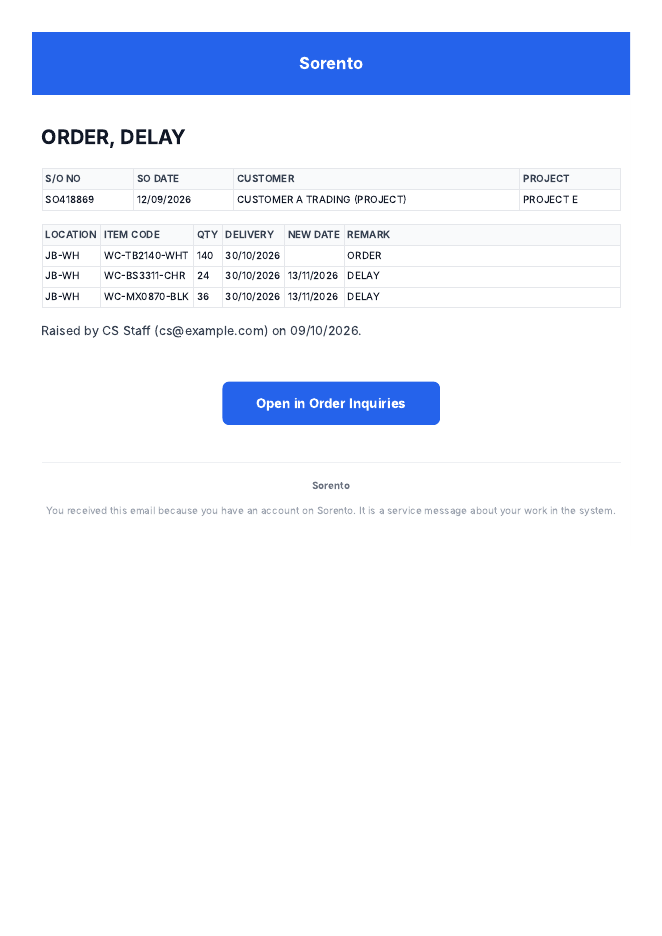
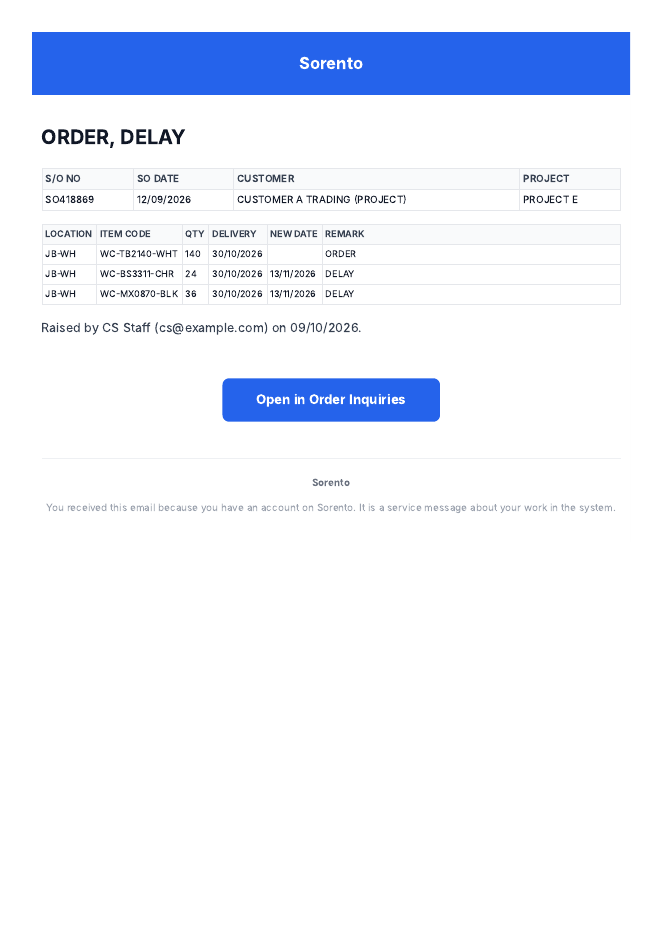
fix(scm): oihr_0005 also upgrades the pre-0004 handover row; line table 11px (OI-EMAIL-PRINT)
Owner hand test on dev: the handover row was still the pre-oihr_0004 document, and
the guard that only knew oihr_0004's output updated 0 rows in silence. The guard now
accepts every unedited state (pre-0004, its width:standard re-save, oihr_0004 output)
and still skips an admin-edited row with a warning.

The owner's REMARK 'DELAY, ORDER 6, CHANGE ITEM CODE TO SRT382-6-DIY (WAS SRT382-6)'
took 3 lines on the 672px card at 12px; the line table is now 11px, which gives
2 lines in the widest layout (print pass case 4).

Claude-Session: https://claude.ai/code/session_0128QV6Rszh9fo9ABpWJyzZC

diff --git a/documentation/plans/scm/evidence/oi-email-print/print_check.js b/documentation/plans/scm/evidence/oi-email-print/print_check.js
@@ -3,15 +3,20 @@ const fs = require('fs');
 const dir = process.argv[2];
 (async () => {
   const b = await chromium.launch({ executablePath: '/opt/pw-browsers/chromium-1194/chrome-linux/chrome' });
-  for (const c of ['case1', 'case2', 'case3']) {
+  for (const c of ['case1', 'case2', 'case3', 'case4']) {
     const p = await b.newPage({ viewport: { width: 698, height: 1000 } });
     await p.setContent(fs.readFileSync(`${dir}/${c}.html`, 'utf8'));
     const m = await p.evaluate(() => {
-      const t = [...document.querySelectorAll('table[style*="font-size:12px"]')];
+      const t = [...document.querySelectorAll('table[style*="font-size"]')];
       const cells = t.flatMap(x => [...x.querySelectorAll('td, th')]);
-      const multi = cells.filter(td => td.getBoundingClientRect().height > 16 * 2 + 4).map(td => td.textContent.trim());
+      const multi = cells.filter(td => td.getBoundingClientRect().height > (parseFloat(getComputedStyle(td).lineHeight)||16) * 2 + 4).map(td => td.textContent.trim());
       const card = document.querySelector('.em-card').getBoundingClientRect().width;
-      return { scrollWidth: document.documentElement.scrollWidth, card, rows: t[1].querySelectorAll('tbody tr').length, multi: [...new Set(multi)] };
+      const remarkLines = [...t[1].querySelectorAll('tbody tr')].filter(r => r.children.length > 1).map(r => {
+        const td = r.lastElementChild; const lh = parseFloat(getComputedStyle(td).lineHeight) || 16;
+        const pad = parseFloat(getComputedStyle(td).paddingTop) + parseFloat(getComputedStyle(td).paddingBottom);
+        return [td.textContent.trim(), Math.round((td.getBoundingClientRect().height - pad) / lh)];
+      }).filter(([, n]) => n > 1);
+      return { remarkLines, scrollWidth: document.documentElement.scrollWidth, card, rows: t[1].querySelectorAll('tbody tr').length, multi: [...new Set(multi)] };
     });
     await p.emulateMedia({ media: 'print' });
     const pdf = await p.pdf({ preferCSSPageSize: true, printBackground: true });

diff --git a/sorento_crm_backend/alembic/versions/oihr_0005_print_one_page.py b/sorento_crm_backend/alembic/versions/oihr_0005_print_one_page.py
@@ -7,8 +7,9 @@ repeated on every line, and the 900px `wide` card is wider than A4 portrait's pr
 width (698px at Outlook's 0.5in margins).
 
 Updates ``email_templates`` (``code`` = ``TEMPLATE_CODE`` below) IN PLACE, only while its
-``layout_json`` and ``body_text`` are still exactly what `oihr_0004_wide_line_table` left
-(that migration's own guard, widened to the text part this one also rewrites): a row an
+``layout_json`` and ``body_text`` are still one of the known UNEDITED states
+(``_UNEDITED_STATES``): what `oihr_0004_wide_line_table` wrote, or the pre-0004 document a
+database still holds when oihr_0004's own guarded update matched nothing there. A row an
 admin edited in the block editor is theirs and is left alone, with a logged warning. The
 new document:
 
@@ -21,7 +22,8 @@ new document:
 
 ``body_html`` becomes the mirror of the custom text (#1349 D3) and ``body_text`` the same
 change in the pipe table. Subject untouched. A database with no row gets one inserted.
-Idempotent. Downgrade restores `oihr_0004`'s three values byte for byte (frozen below).
+Idempotent. Downgrade restores `oihr_0004`'s three values byte for byte (frozen below),
+whichever unedited state the upgrade started from.
 
 Revision ID: oihr_0005_print_one_page
 Revises: bflo_0001_borrow_order_toggle
@@ -73,7 +75,7 @@ _PRINT_LAYOUT = json.loads(r'''{
    "type": "heading"
   },
   {
-   "html": "<table width=\"100%\" style=\"font-size:12px;line-height:16px;\">\n  <thead>\n    <tr><th style=\"white-space:nowrap;padding:4px;\">S/O NO</th><th style=\"white-space:nowrap;padding:4px;\">SO DATE</th><th style=\"white-space:nowrap;padding:4px;\">CUSTOMER</th><th style=\"white-space:nowrap;padding:4px;\">PROJECT</th></tr>\n  </thead>\n  <tbody>\n    {% for order in handover.orders %}\n    <tr>\n      <td style=\"white-space:nowrap;padding:4px;\">{{ order.so_number | default(\"\", true) }}</td>\n      <td style=\"white-space:nowrap;padding:4px;\">{{ order.so_date | default(\"\", true) }}</td>\n      <td style=\"padding:4px;\">{{ order.customer | default(\"\", true) }}</td>\n      <td style=\"padding:4px;\">{{ order.project | default(\"\", true) }}</td>\n    </tr>\n    {% endfor %}\n  </tbody>\n</table>\n{%- set cols = namespace(qty=false, delivery_date=false) -%}{%- for line in handover.lines -%}{%- if line.was and line.was.qty %}{% set cols.qty = true %}{% endif -%}{%- if line.was and line.was.delivery_date %}{% set cols.delivery_date = true %}{% endif -%}{%- endfor -%}\n{%- set span = 5 + (1 if cols.qty else 0) + (1 if cols.delivery_date else 0) -%}\n{%- set grouped = handover.orders | length > 1 -%}<table width=\"100%\" style=\"font-size:12px;line-height:16px;\">\n  <thead style=\"display:table-header-group;\">\n    <tr>\n      <th style=\"white-space:nowrap;padding:4px;\">LOCATION</th><th style=\"white-space:nowrap;padding:4px;\">ITEM CODE</th>\n      <th style=\"white-space:nowrap;padding:4px;\">QTY</th>{% if cols.qty %}<th style=\"white-space:nowrap;padding:4px;\">NEW QTY</th>{% endif %}\n      <th style=\"white-space:nowrap;padding:4px;\">DELIVERY</th>{% if cols.delivery_date %}<th style=\"white-space:nowrap;padding:4px;\">NEW DATE</th>{% endif %}\n      <th style=\"white-space:nowrap;padding:4px;width:100%;\">REMARK</th>\n    </tr>\n  </thead>\n  <tbody>\n    {% for line in handover.lines %}\n    {% if grouped and (loop.first or line.so_number != loop.previtem.so_number) %}\n    <tr style=\"page-break-inside:avoid;\"><td colspan=\"{{ span }}\" style=\"white-space:nowrap;padding:4px;background-color:#f3f4f6;font-weight:600;\">S/O NO {{ line.so_number | default(\"\", true) }}</td></tr>\n    {% endif %}\n    <tr style=\"page-break-inside:avoid;\">\n      <td style=\"white-space:nowrap;padding:4px;\">{{ line.location | default(\"\", true) }}</td>\n      <td style=\"white-space:nowrap;padding:4px;\">{{ line.item_code | default(\"\", true) }}</td>\n      <td style=\"white-space:nowrap;padding:4px;\">{% if line.was and line.was.qty %}{{ line.was.qty }}{% else %}{{ line.qty | default(\"\", true) }}{% endif %}</td>\n      {% if cols.qty %}<td style=\"white-space:nowrap;padding:4px;\">{% if line.was and line.was.qty %}{{ line.qty | default(\"\", true) }}{% endif %}</td>{% endif %}\n      <td style=\"white-space:nowrap;padding:4px;\">{% if line.was and line.was.delivery_date %}{{ line.was.delivery_date }}{% else %}{{ line.delivery_date | default(\"\", true) }}{% endif %}</td>\n      {% if cols.delivery_date %}<td style=\"white-space:nowrap;padding:4px;\">{% if line.was and line.was.delivery_date %}{{ line.delivery_date | default(\"\", true) }}{% endif %}</td>{% endif %}\n      <td style=\"padding:4px;\">{{ line.remark | default(\"\", true) }}{% if line.attachments %}<br>Attachments: {% for a in line.attachments %}{% if not loop.first %}, {% endif %}{% if a.attached %}{{ a.name }}{% else %}<a href=\"{{ a.url }}\">{{ a.name }}</a> (not attached, too large for email){% endif %}{% endfor %}{% endif %}</td>\n    </tr>\n    {% endfor %}\n  </tbody>\n</table>\n<p>Raised by {{ actor.name if actor else '-' }}{% if actor %} ({{ actor.email }}){% endif %} on {{ today }}.</p>",
+   "html": "<table width=\"100%\" style=\"font-size:12px;line-height:16px;\">\n  <thead>\n    <tr><th style=\"white-space:nowrap;padding:4px;\">S/O NO</th><th style=\"white-space:nowrap;padding:4px;\">SO DATE</th><th style=\"white-space:nowrap;padding:4px;\">CUSTOMER</th><th style=\"white-space:nowrap;padding:4px;\">PROJECT</th></tr>\n  </thead>\n  <tbody>\n    {% for order in handover.orders %}\n    <tr>\n      <td style=\"white-space:nowrap;padding:4px;\">{{ order.so_number | default(\"\", true) }}</td>\n      <td style=\"white-space:nowrap;padding:4px;\">{{ order.so_date | default(\"\", true) }}</td>\n      <td style=\"padding:4px;\">{{ order.customer | default(\"\", true) }}</td>\n      <td style=\"padding:4px;\">{{ order.project | default(\"\", true) }}</td>\n    </tr>\n    {% endfor %}\n  </tbody>\n</table>\n{%- set cols = namespace(qty=false, delivery_date=false) -%}{%- for line in handover.lines -%}{%- if line.was and line.was.qty %}{% set cols.qty = true %}{% endif -%}{%- if line.was and line.was.delivery_date %}{% set cols.delivery_date = true %}{% endif -%}{%- endfor -%}\n{%- set span = 5 + (1 if cols.qty else 0) + (1 if cols.delivery_date else 0) -%}\n{%- set grouped = handover.orders | length > 1 -%}<table width=\"100%\" style=\"font-size:11px;line-height:15px;\">\n  <thead style=\"display:table-header-group;\">\n    <tr>\n      <th style=\"white-space:nowrap;padding:4px;\">LOCATION</th><th style=\"white-space:nowrap;padding:4px;\">ITEM CODE</th>\n      <th style=\"white-space:nowrap;padding:4px;\">QTY</th>{% if cols.qty %}<th style=\"white-space:nowrap;padding:4px;\">NEW QTY</th>{% endif %}\n      <th style=\"white-space:nowrap;padding:4px;\">DELIVERY</th>{% if cols.delivery_date %}<th style=\"white-space:nowrap;padding:4px;\">NEW DATE</th>{% endif %}\n      <th style=\"white-space:nowrap;padding:4px;width:100%;\">REMARK</th>\n    </tr>\n  </thead>\n  <tbody>\n    {% for line in handover.lines %}\n    {% if grouped and (loop.first or line.so_number != loop.previtem.so_number) %}\n    <tr style=\"page-break-inside:avoid;\"><td colspan=\"{{ span }}\" style=\"white-space:nowrap;padding:4px;background-color:#f3f4f6;font-weight:600;\">S/O NO {{ line.so_number | default(\"\", true) }}</td></tr>\n    {% endif %}\n    <tr style=\"page-break-inside:avoid;\">\n      <td style=\"white-space:nowrap;padding:4px;\">{{ line.location | default(\"\", true) }}</td>\n      <td style=\"white-space:nowrap;padding:4px;\">{{ line.item_code | default(\"\", true) }}</td>\n      <td style=\"white-space:nowrap;padding:4px;\">{% if line.was and line.was.qty %}{{ line.was.qty }}{% else %}{{ line.qty | default(\"\", true) }}{% endif %}</td>\n      {% if cols.qty %}<td style=\"white-space:nowrap;padding:4px;\">{% if line.was and line.was.qty %}{{ line.qty | default(\"\", true) }}{% endif %}</td>{% endif %}\n      <td style=\"white-space:nowrap;padding:4px;\">{% if line.was and line.was.delivery_date %}{{ line.was.delivery_date }}{% else %}{{ line.delivery_date | default(\"\", true) }}{% endif %}</td>\n      {% if cols.delivery_date %}<td style=\"white-space:nowrap;padding:4px;\">{% if line.was and line.was.delivery_date %}{{ line.delivery_date | default(\"\", true) }}{% endif %}</td>{% endif %}\n      <td style=\"padding:4px;\">{{ line.remark | default(\"\", true) }}{% if line.attachments %}<br>Attachments: {% for a in line.attachments %}{% if not loop.first %}, {% endif %}{% if a.attached %}{{ a.name }}{% else %}<a href=\"{{ a.url }}\">{{ a.name }}</a> (not attached, too large for email){% endif %}{% endfor %}{% endif %}</td>\n    </tr>\n    {% endfor %}\n  </tbody>\n</table>\n<p>Raised by {{ actor.name if actor else '-' }}{% if actor %} ({{ actor.email }}){% endif %} on {{ today }}.</p>",
    "type": "custom_text"
   },
   {
@@ -128,6 +130,48 @@ _PRIOR_LAYOUT = json.loads(r'''{
 _PRIOR_BODY_HTML = '<table width="100%">\n  <thead>\n    <tr><th style="padding:6px 8px;">S/O NO</th><th style="padding:6px 8px;">CUSTOMER</th><th style="padding:6px 8px;">PROJECT</th></tr>\n  </thead>\n  <tbody>\n    {% for order in handover.orders %}\n    <tr>\n      <td style="padding:6px 8px;">{{ order.so_number | default("", true) }}</td>\n      <td style="padding:6px 8px;">{{ order.customer | default("", true) }}</td>\n      <td style="padding:6px 8px;">{{ order.project | default("", true) }}</td>\n    </tr>\n    {% endfor %}\n  </tbody>\n</table>\n{%- set cols = namespace(qty=false, delivery_date=false) -%}{%- for line in handover.lines -%}{%- if line.was and line.was.qty %}{% set cols.qty = true %}{% endif -%}{%- if line.was and line.was.delivery_date %}{% set cols.delivery_date = true %}{% endif -%}{%- endfor -%}<table width="100%">\n  <thead>\n    <tr>\n      <th style="width:86px;padding:6px 8px;">SO DATE</th><th style="width:82px;padding:6px 8px;">S/O NO</th><th style="width:92px;padding:6px 8px;">LOCATION</th><th style="width:140px;padding:6px 8px;">ITEM CODE</th>\n      <th style="width:56px;padding:6px 8px;">QTY</th>{% if cols.qty %}<th style="width:72px;padding:6px 8px;">QTY CHANGE TO</th>{% endif %}\n      <th style="width:92px;padding:6px 8px;">DELIVERY DATE</th>{% if cols.delivery_date %}<th style="width:92px;padding:6px 8px;">DELIVERY DATE CHANGE TO</th>{% endif %}\n      <th style="padding:6px 8px;">REMARK</th>\n    </tr>\n  </thead>\n  <tbody>\n    {% for line in handover.lines %}\n    <tr>\n      <td style="white-space:nowrap;padding:6px 8px;">{{ line.so_date | default("", true) }}</td>\n      <td style="white-space:nowrap;padding:6px 8px;">{{ line.so_number | default("", true) }}</td>\n      <td style="white-space:nowrap;padding:6px 8px;">{{ line.location | default("", true) }}</td>\n      <td style="white-space:nowrap;padding:6px 8px;">{{ line.item_code | default("", true) }}</td>\n      <td style="white-space:nowrap;padding:6px 8px;">{% if line.was and line.was.qty %}{{ line.was.qty }}{% else %}{{ line.qty | default("", true) }}{% endif %}</td>\n      {% if cols.qty %}<td style="white-space:nowrap;padding:6px 8px;">{% if line.was and line.was.qty %}{{ line.qty | default("", true) }}{% endif %}</td>{% endif %}\n      <td style="white-space:nowrap;padding:6px 8px;">{% if line.was and line.was.delivery_date %}{{ line.was.delivery_date }}{% else %}{{ line.delivery_date | default("", true) }}{% endif %}</td>\n      {% if cols.delivery_date %}<td style="white-space:nowrap;padding:6px 8px;">{% if line.was and line.was.delivery_date %}{{ line.delivery_date | default("", true) }}{% endif %}</td>{% endif %}\n      <td style="padding:6px 8px;">{{ line.remark | default("", true) }}{% if line.attachments %}<br>Attachments: {% for a in line.attachments %}{% if not loop.first %}, {% endif %}{% if a.attached %}{{ a.name }}{% else %}<a href="{{ a.url }}">{{ a.name }}</a> (not attached, too large for email){% endif %}{% endfor %}{% endif %}</td>\n    </tr>\n    {% endfor %}\n  </tbody>\n</table>\n<p>Raised by {{ actor.name if actor else \'-\' }}{% if actor %} ({{ actor.email }}){% endif %} on {{ today }}.</p>'
 
 _PRIOR_BODY_TEXT = '{%- set cols = namespace(qty=false, delivery_date=false) -%}{%- for line in handover.lines -%}{%- if line.was and line.was.qty %}{% set cols.qty = true %}{% endif -%}{%- if line.was and line.was.delivery_date %}{% set cols.delivery_date = true %}{% endif -%}{%- endfor -%}{{ handover.headline }}\n\n{% for order in handover.orders %}{{ order.so_number | default("", true) }}{% if order.customer %} - {{ order.customer }}{% endif %}{% if order.project %} - {{ order.project }}{% endif %}\n{% endfor %}\nSO DATE | S/O NO | LOCATION | ITEM CODE | QTY |{% if cols.qty %} QTY CHANGE TO |{% endif %} DELIVERY DATE |{% if cols.delivery_date %} DELIVERY DATE CHANGE TO |{% endif %} REMARK\n{% for line in handover.lines %}{{ line.so_date | default("", true) }} | {{ line.so_number | default("", true) }} | {{ line.location | default("", true) }} | {{ line.item_code | default("", true) }} | {% if line.was and line.was.qty %}{{ line.was.qty }}{% else %}{{ line.qty | default("", true) }}{% endif %} |{% if cols.qty %} {% if line.was and line.was.qty %}{{ line.qty | default("", true) }}{% endif %} |{% endif %} {% if line.was and line.was.delivery_date %}{{ line.was.delivery_date }}{% else %}{{ line.delivery_date | default("", true) }}{% endif %} |{% if cols.delivery_date %} {% if line.was and line.was.delivery_date %}{{ line.delivery_date | default("", true) }}{% endif %} |{% endif %} {{ line.remark | default("", true) }}{% if line.attachments %} / Attachments: {% for a in line.attachments %}{% if not loop.first %}, {% endif %}{% if a.attached %}{{ a.name }}{% else %}{{ a.name }} ({{ a.url }}) (not attached, too large for email){% endif %}{% endfor %}{% endif %}\n{% endfor %}\nRaised by {{ actor.name if actor else \'-\' }} on {{ today }}.\nOpen: {{ handover.link }}\n'
+
+
+#: The row as it stood BEFORE `oihr_0004` (`eml_0002_seed_layouts`' document, no width
+#: key), byte for byte off oihr_0004's own frozen copy. Crew hand test, 9 Oct: the dev
+#: database still held this document (oihr_0004's guarded update had matched nothing
+#: there), so a guard that only knew oihr_0004's OUTPUT updated 0 rows in silence. Both
+#: unedited states go straight to the print document; oihr_0004 never wrote `body_text`,
+#: so the text part is the same `_PRIOR_BODY_TEXT` in both.
+_PRE_0004_LAYOUT = json.loads(r'''{
+ "blocks": [
+  {
+   "type": "brand_header"
+  },
+  {
+   "text": "{{ handover.headline }}",
+   "type": "heading"
+  },
+  {
+   "html": "<table width=\"100%\">\n  <thead>\n    <tr><th>S/O NO</th><th>CUSTOMER</th><th>PROJECT</th></tr>\n  </thead>\n  <tbody>\n    {% for order in handover.orders %}\n    <tr>\n      <td>{{ order.so_number | default(\"\", true) }}</td>\n      <td>{{ order.customer | default(\"\", true) }}</td>\n      <td>{{ order.project | default(\"\", true) }}</td>\n    </tr>\n    {% endfor %}\n  </tbody>\n</table>\n{%- set cols = namespace(qty=false, delivery_date=false) -%}{%- for line in handover.lines -%}{%- if line.was and line.was.qty %}{% set cols.qty = true %}{% endif -%}{%- if line.was and line.was.delivery_date %}{% set cols.delivery_date = true %}{% endif -%}{%- endfor -%}<table width=\"100%\">\n  <thead>\n    <tr>\n      <th>SO DATE</th><th>S/O NO</th><th>LOCATION</th><th>ITEM CODE</th>\n      <th>QTY</th>{% if cols.qty %}<th>QTY CHANGE TO</th>{% endif %}\n      <th>DELIVERY DATE</th>{% if cols.delivery_date %}<th>DELIVERY DATE CHANGE TO</th>{% endif %}\n      <th>REMARK</th>\n    </tr>\n  </thead>\n  <tbody>\n    {% for line in handover.lines %}\n    <tr>\n      <td>{{ line.so_date | default(\"\", true) }}</td>\n      <td>{{ line.so_number | default(\"\", true) }}</td>\n      <td>{{ line.location | default(\"\", true) }}</td>\n      <td>{{ line.item_code | default(\"\", true) }}</td>\n      <td>{% if line.was and line.was.qty %}{{ line.was.qty }}{% else %}{{ line.qty | default(\"\", true) }}{% endif %}</td>\n      {% if cols.qty %}<td>{% if line.was and line.was.qty %}{{ line.qty | default(\"\", true) }}{% endif %}</td>{% endif %}\n      <td>{% if line.was and line.was.delivery_date %}{{ line.was.delivery_date }}{% else %}{{ line.delivery_date | default(\"\", true) }}{% endif %}</td>\n      {% if cols.delivery_date %}<td>{% if line.was and line.was.delivery_date %}{{ line.delivery_date | default(\"\", true) }}{% endif %}</td>{% endif %}\n      <td>{{ line.remark | default(\"\", true) }}{% if line.attachments %}<br>Attachments: {% for a in line.attachments %}{% if not loop.first %}, {% endif %}{% if a.attached %}{{ a.name }}{% else %}<a href=\"{{ a.url }}\">{{ a.name }}</a> (not attached, too large for email){% endif %}{% endfor %}{% endif %}</td>\n    </tr>\n    {% endfor %}\n  </tbody>\n</table>\n<p>Raised by {{ actor.name if actor else '-' }}{% if actor %} ({{ actor.email }}){% endif %} on {{ today }}.</p>",
+   "type": "custom_text"
+  },
+  {
+   "url": "{{ handover.link }}",
+   "type": "button",
+   "label": "Open in Order Inquiries"
+  },
+  {
+   "type": "footer"
+  }
+ ],
+ "version": 1
+}''')
+
+#: Every unedited (layout, text) state this migration upgrades: the pre-0004 document as
+#: eml_0002 wrote it, the same document as the block editor re-saves it once
+#: `EmailDocument.width` exists (`"width": "standard"` added, nothing else), and
+#: oihr_0004's output.
+_UNEDITED_STATES = [
+    (_PRE_0004_LAYOUT, _PRIOR_BODY_TEXT),
+    ({**_PRE_0004_LAYOUT, "width": "standard"}, _PRIOR_BODY_TEXT),
+    (_PRIOR_LAYOUT, _PRIOR_BODY_TEXT),
+]
 
 
 def _set(
@@ -205,7 +249,7 @@ def upgrade() -> None:
         layout=_PRINT_LAYOUT,
         body_html=_PRINT_BODY_HTML,
         body_text=_PRINT_BODY_TEXT,
-        only_when=[(_PRIOR_LAYOUT, _PRIOR_BODY_TEXT)],
+        only_when=_UNEDITED_STATES,
         direction="upgrade",
     )
 

diff --git a/sorento_crm_backend/tests/test_oi_email_print.py b/sorento_crm_backend/tests/test_oi_email_print.py
@@ -222,6 +222,31 @@ def test_upgrade_converts_0004_document_in_place_idempotent_and_reversible():
         assert _handover_row(db) == before, "downgrade restores oihr_0004 byte for byte"
 
 
+def test_upgrade_converts_the_pre_0004_row_too():
+    """Crew hand test, 9 Oct: the dev row was still the pre-oihr_0004 document (eml_0002's,
+    no width key) and the guard that knew only oihr_0004's output updated 0 rows in
+    silence. Both that state and the block editor's re-save of it (`width: standard`)
+    reach the print document."""
+    module = _load(REVISION)
+    for resaved in (False, True):
+        with blank_session() as db:
+            mods = _seed(db)
+            _run(mods["eml_0002_seed_layouts"], db)
+            before = _handover_row(db)
+            assert "width" not in before["layout_json"], "sanity: the pre-0004 document"
+            if resaved:
+                db.execute(
+                    sa.text("UPDATE email_templates SET layout_json = CAST(:l AS jsonb) WHERE code = :c"),
+                    {"l": json.dumps({**before["layout_json"], "width": "standard"}), "c": CODE},
+                )
+            _run(module, db)
+            after = _handover_row(db)
+            assert after["layout_json"]["width"] == "print", (resaved, after["layout_json"].get("width"))
+            assert after["body_html"] == _custom_text(after["layout_json"])
+            assert "LOCATION | ITEM CODE | QTY |" in after["body_text"]
+            assert after["layout_json"] == module._PRINT_LAYOUT
+
+
 def test_admin_edited_document_is_left_alone():
     module = _load(REVISION)
     with blank_session() as db:

diff --git a/documentation/plans/scm/evidence/oi-email-print/render_real.py b/documentation/plans/scm/evidence/oi-email-print/render_real.py
@@ -66,6 +66,17 @@ cases = {
              verb=IV_ORDER, qty=8, delivery_date=D(2026, 10, 9), item_code="SRTBS2201",
              stock_location="PG-WH", was={"qty": 12}),
     ],
+    "case4": [  # owner's case: AutoCount swapped the product; worst width (NEW QTY + NEW DATE)
+        item("SO419012", "02/10/2026", "p5", "CUSTOMER F SDN BHD", "PROJECT K", "settled", 1,
+             verb=IV_ORDER, qty=30, delivery_date=D(2026, 11, 6), item_code="SRT382-6-DIY",
+             stock_location="KL-WH", was={"item_code": "SRT382-6", "qty": 24, "delivery_date": D(2026, 10, 30)}),
+        item("SO419012", "02/10/2026", "p5", "CUSTOMER F SDN BHD", "PROJECT K", "raised", 2,
+             verb=IV_ORDER, qty=12, delivery_date=D(2026, 11, 6), item_code="SRT382-6-DIY",
+             stock_location="KL-WH", note="Replaces 12 used; Was item SRT382-6", was={"item_code": "SRT382-6"}),
+        item("SO419012", "02/10/2026", "p5", "CUSTOMER F SDN BHD", "PROJECT K", "settled", 3,
+             verb=IV_ORDER, qty=8, delivery_date=D(2026, 11, 13), item_code="CWCX604-S-RL-NEW",
+             stock_location="KL-WH", was={"delivery_date": D(2026, 11, 6)}),
+    ],
     "case3": [  # long order: 42 lines
         item("SO418900", "01/10/2026", "p4", "CUSTOMER D SDN BHD", "PROJECT M", "raised", i,
              verb=IV_ORDER, qty=10 + i, delivery_date=D(2026, 11, 20), item_code=f"SRTWT{6800 + i}",

diff --git a/documentation/plans/scm/PLAN-oi-email-print-09oct.md b/documentation/plans/scm/PLAN-oi-email-print-09oct.md
@@ -71,7 +71,11 @@ and S/O NO repeat on every row.
    LOCATION | ITEM CODE | QTY | [NEW QTY] | DELIVERY | [NEW DATE] | REMARK
    (bracketed columns appear only when some line changed that value, as today). Every header
    and every cell except REMARK (and CUSTOMER / PROJECT in the order table) is
-   `white-space:nowrap`; font 12px; padding 4px.
+   `white-space:nowrap`; font 11px / 15px line height in the line table (12px in the order
+   table); padding 4px. 11px (owner hand test, 9 Oct): at 12px the owner's case
+   `DELAY, ORDER 6, CHANGE ITEM CODE TO SRT382-6-DIY (WAS SRT382-6)` took 3 lines in the
+   widest layout (NEW QTY + NEW DATE + a 16-char code); at 11px it takes 2 and
+   `ORDER BACK SPO-2026/08-0061` fits on 1.
 4. **Fits A4 portrait.** The handover document moves from the 900px `wide` card to a new
    `print` width: 672px card, 12px gutters (648px of table); card + the shell's 12px outer
    padding = 696px, inside Outlook's 698px and Chrome's 718px printable width. The shell also
@@ -87,7 +91,10 @@ and S/O NO repeat on every row.
    lines carry the SO date; the pipe table drops SO DATE / S/O NO and prints the S/O NO as a
    group line when there are several).
 6. **Admin edits are respected**: the migration converts the row only while its `layout_json`
-   and `body_text` are still exactly what `oihr_0004` left, logs and skips otherwise.
+   and `body_text` are still one of the known unedited states: oihr_0004's output, or the
+   pre-0004 document (eml_0002's, with or without the editor's `width: standard`). Crew hand
+   test, 9 Oct: the dev row was still pre-0004, and a guard that only knew oihr_0004's output
+   updated 0 rows in silence. Any other row is logged and skipped.
    Rule 1 is code, so it applies to an admin-edited template too.
 
 ### Examples (real cases, customer and project names masked)

diff --git a/documentation/plans/scm/oi-email-print-09oct-acceptance-criteria.md b/documentation/plans/scm/oi-email-print-09oct-acceptance-criteria.md
@@ -22,7 +22,9 @@ Plan: `PLAN-oi-email-print-09oct.md`. Mock: `ALIGN-oi-email-print-09oct.html`.
   changed that value.
 - **AC-P6** One order in the email: no group row. Two or more: one group row `S/O NO <n>` before
   each order's first line, spanning every column.
-- **AC-P7** Every `th`, and every `td` except REMARK, carries `white-space:nowrap`.
+- **AC-P7** Every `th`, and every `td` except REMARK, carries `white-space:nowrap`. REMARK
+  `DELAY, ORDER 6, CHANGE ITEM CODE TO SRT382-6-DIY (WAS SRT382-6)` takes at most 2 lines on
+  the 672px card with both NEW columns and a 16-char code present (line table 11px).
 - **AC-P8** The rendered mail's card is 672px wide (`print` width), side gutters 12px; the shell's
   `<style>` carries an `@media print` rule and `@page { size: A4 portrait }`.
 - **AC-P9** Printing the mock's "after" email in Chromium to A4 portrait gives one page for 12 lines
@@ -32,8 +34,9 @@ Plan: `PLAN-oi-email-print-09oct.md`. Mock: `ALIGN-oi-email-print-09oct.html`.
 ## Migration
 
 - **AC-P11** Upgrade rewrites `layout_json` / `body_html` / `body_text` of
-  `order_inquiry_handover_default` only while `layout_json` and `body_text` are still what
-  `oihr_0004` left; any other row is left alone and a warning is logged. Downgrade restores oihr_0004's
+  `order_inquiry_handover_default` only while `layout_json` and `body_text` are still one of
+  the unedited states (oihr_0004's output, or the pre-0004 document with or without
+  `width: standard`); any other row is left alone and a warning is logged. Downgrade restores oihr_0004's
   three values byte for byte. A database with no row gets one inserted. Idempotent.
 
 ## Unchanged
